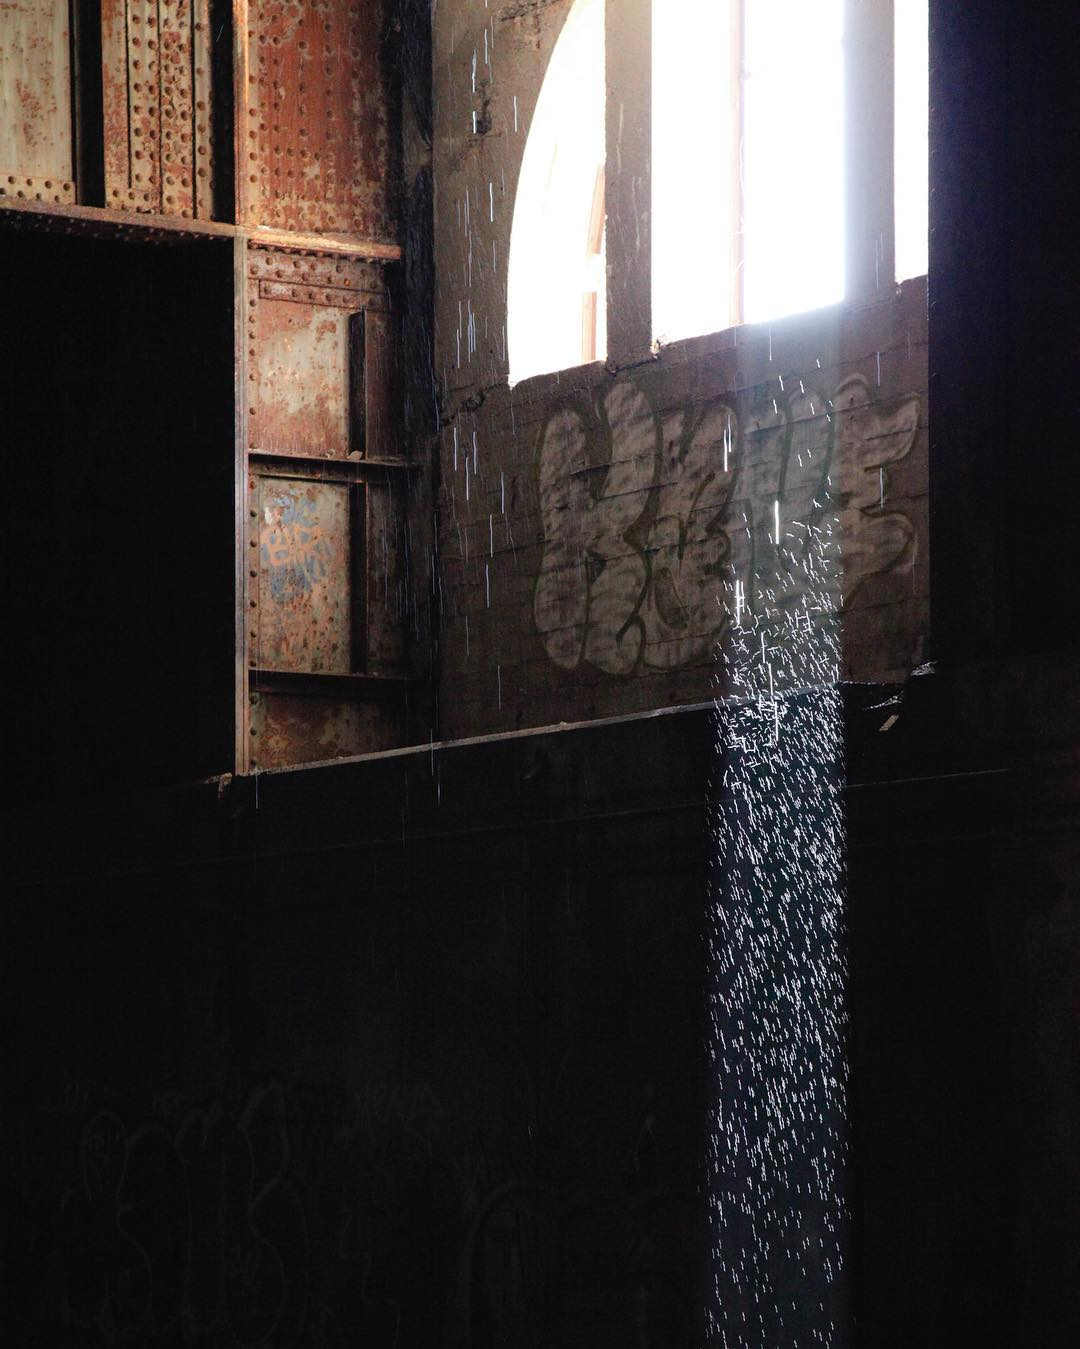
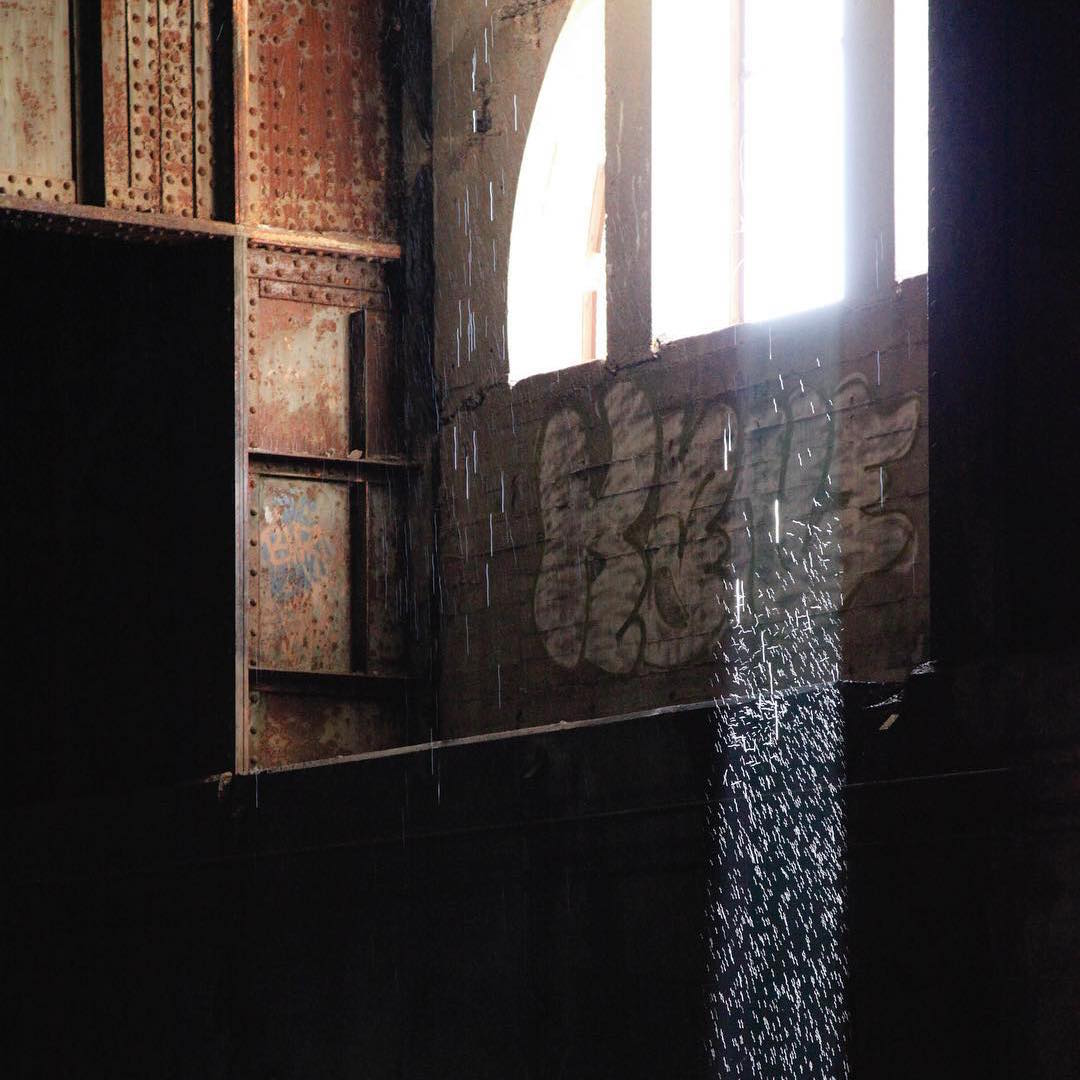
hero image edit

Changed region(s): [[0.0, 0.0, 0.8861, 1.0]]

diff --git a/production/css/styles.css b/production/css/styles.css
@@ -103,20 +103,23 @@ body {
             justify-content: center;
     width: 100%;
     max-width: 1140px;
+    height: 280px;
     margin: 0 auto;
     text-align: center;
+    overflow: hidden;
+    background-color: #000;
 }
 
-.hero div:first-of-type img {
-    width: 50%;
+.hero .hero-image {
+    position: relative;
 }
 
-.hero div:nth-of-type(2) img {
-    width: 20%;
+.hero .hero-image img {
+    width: 100%;
 }
 
-.hero div:last-of-type img {
-    width: 30%;
+.hero .hero-image:last-of-type {
+    text-align: right;
 }
 
 main {
@@ -183,4 +186,4 @@ footer {
 
 /* Media Queries */
 
[2 lines of base64/hex data omitted]

diff --git a/development/scss/styles.scss b/development/scss/styles.scss
@@ -90,30 +90,45 @@ body {
 	justify-content: center;
 	width: 100%;
 	max-width: 1140px;
+	height: 280px;
 	margin: 0 auto;
 	text-align: center;
+	overflow: hidden;
+	background-color: #000;
 
-	div {
+	.hero-image {
+		position: relative;
 
+		img {
+			width: 100%;
+		}
 		&:first-of-type {
 			img {
-				width: 50%;
+
 			}
 		}
 
 		&:nth-of-type(2) {
 			img {
-				width: 20%;
 			}
 		}
 
 		&:last-of-type {
+			text-align: right;
 			img {
-				width: 30%;
+
 			}
 		}
+	}
 
-
+	.shadow {
+		// position: absolute;
+		// width: 100%;
+		// height: 100%;
+		// box-shadow: inset 22px -5px 20px 0px #000000;
+		// border-radius: 20px;
+		// top: 0;
+		// left: 0;
 	}
 }
 

diff --git a/index.html b/index.html
@@ -16,13 +16,21 @@
         <section class="hero">
 
             <div class="hero-image">
+                <div class="shadow"></div>
+                
                 <img src="production/images/wide-shot.jpg" alt="NYC tunnel train">
             </div>
             <div class="hero-image">
+                <div class="shadow"></div>
+
                 <img src="production/images/stefan.jpg" alt="Stefan Bobrowski">
+
             </div>
             <div class="hero-image">
+                <div class="shadow"></div>
+
                 <img src="production/images/side-wall.jpg" alt="NYC tunnel window">
+
             </div>
         </section>
 
